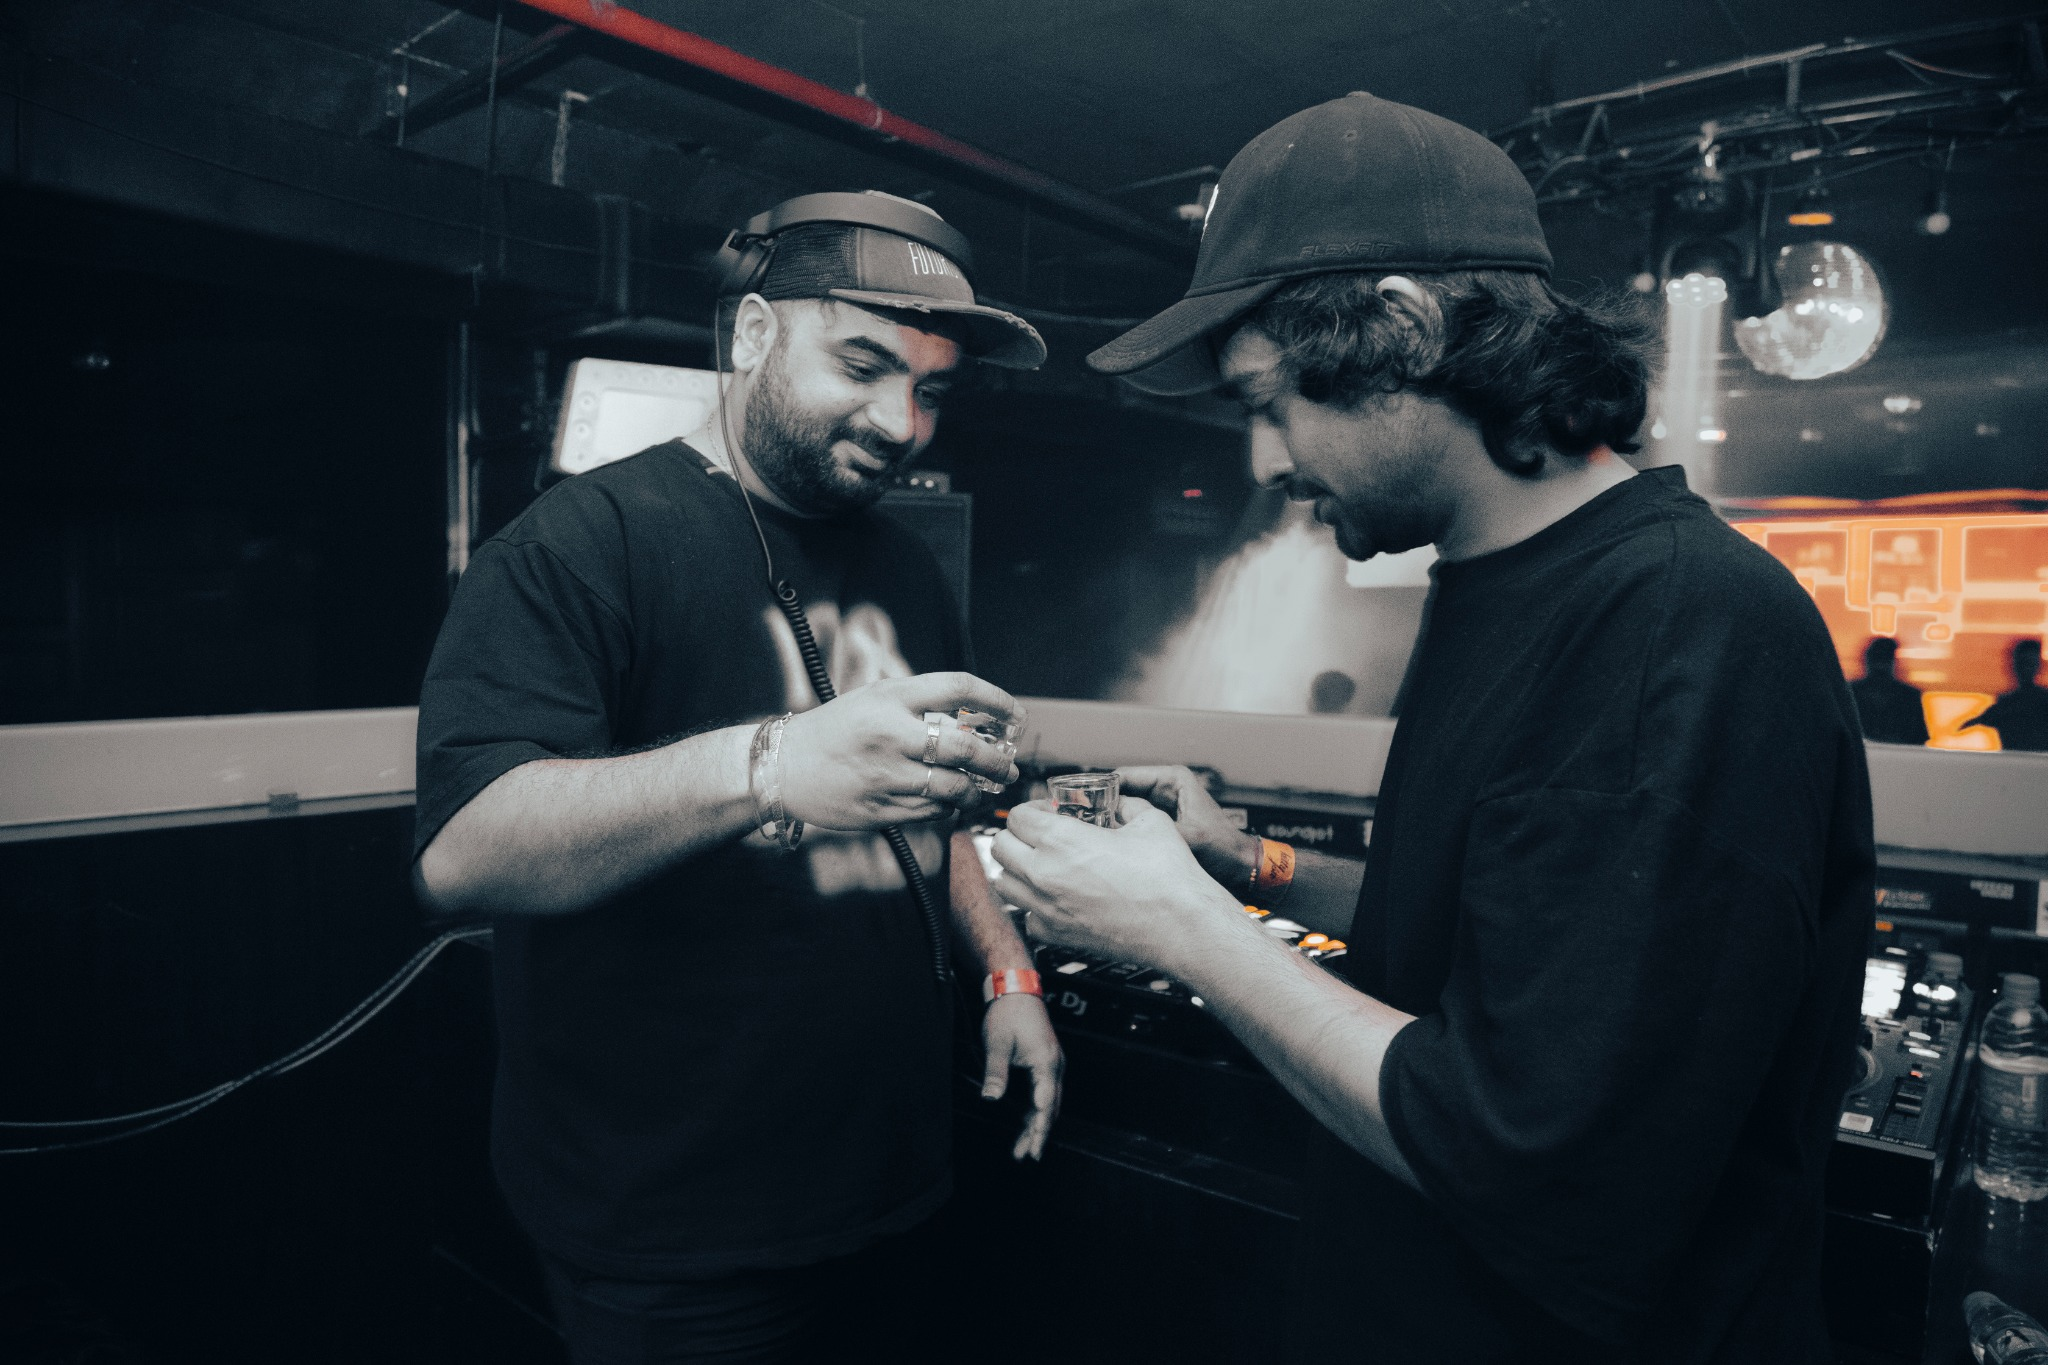
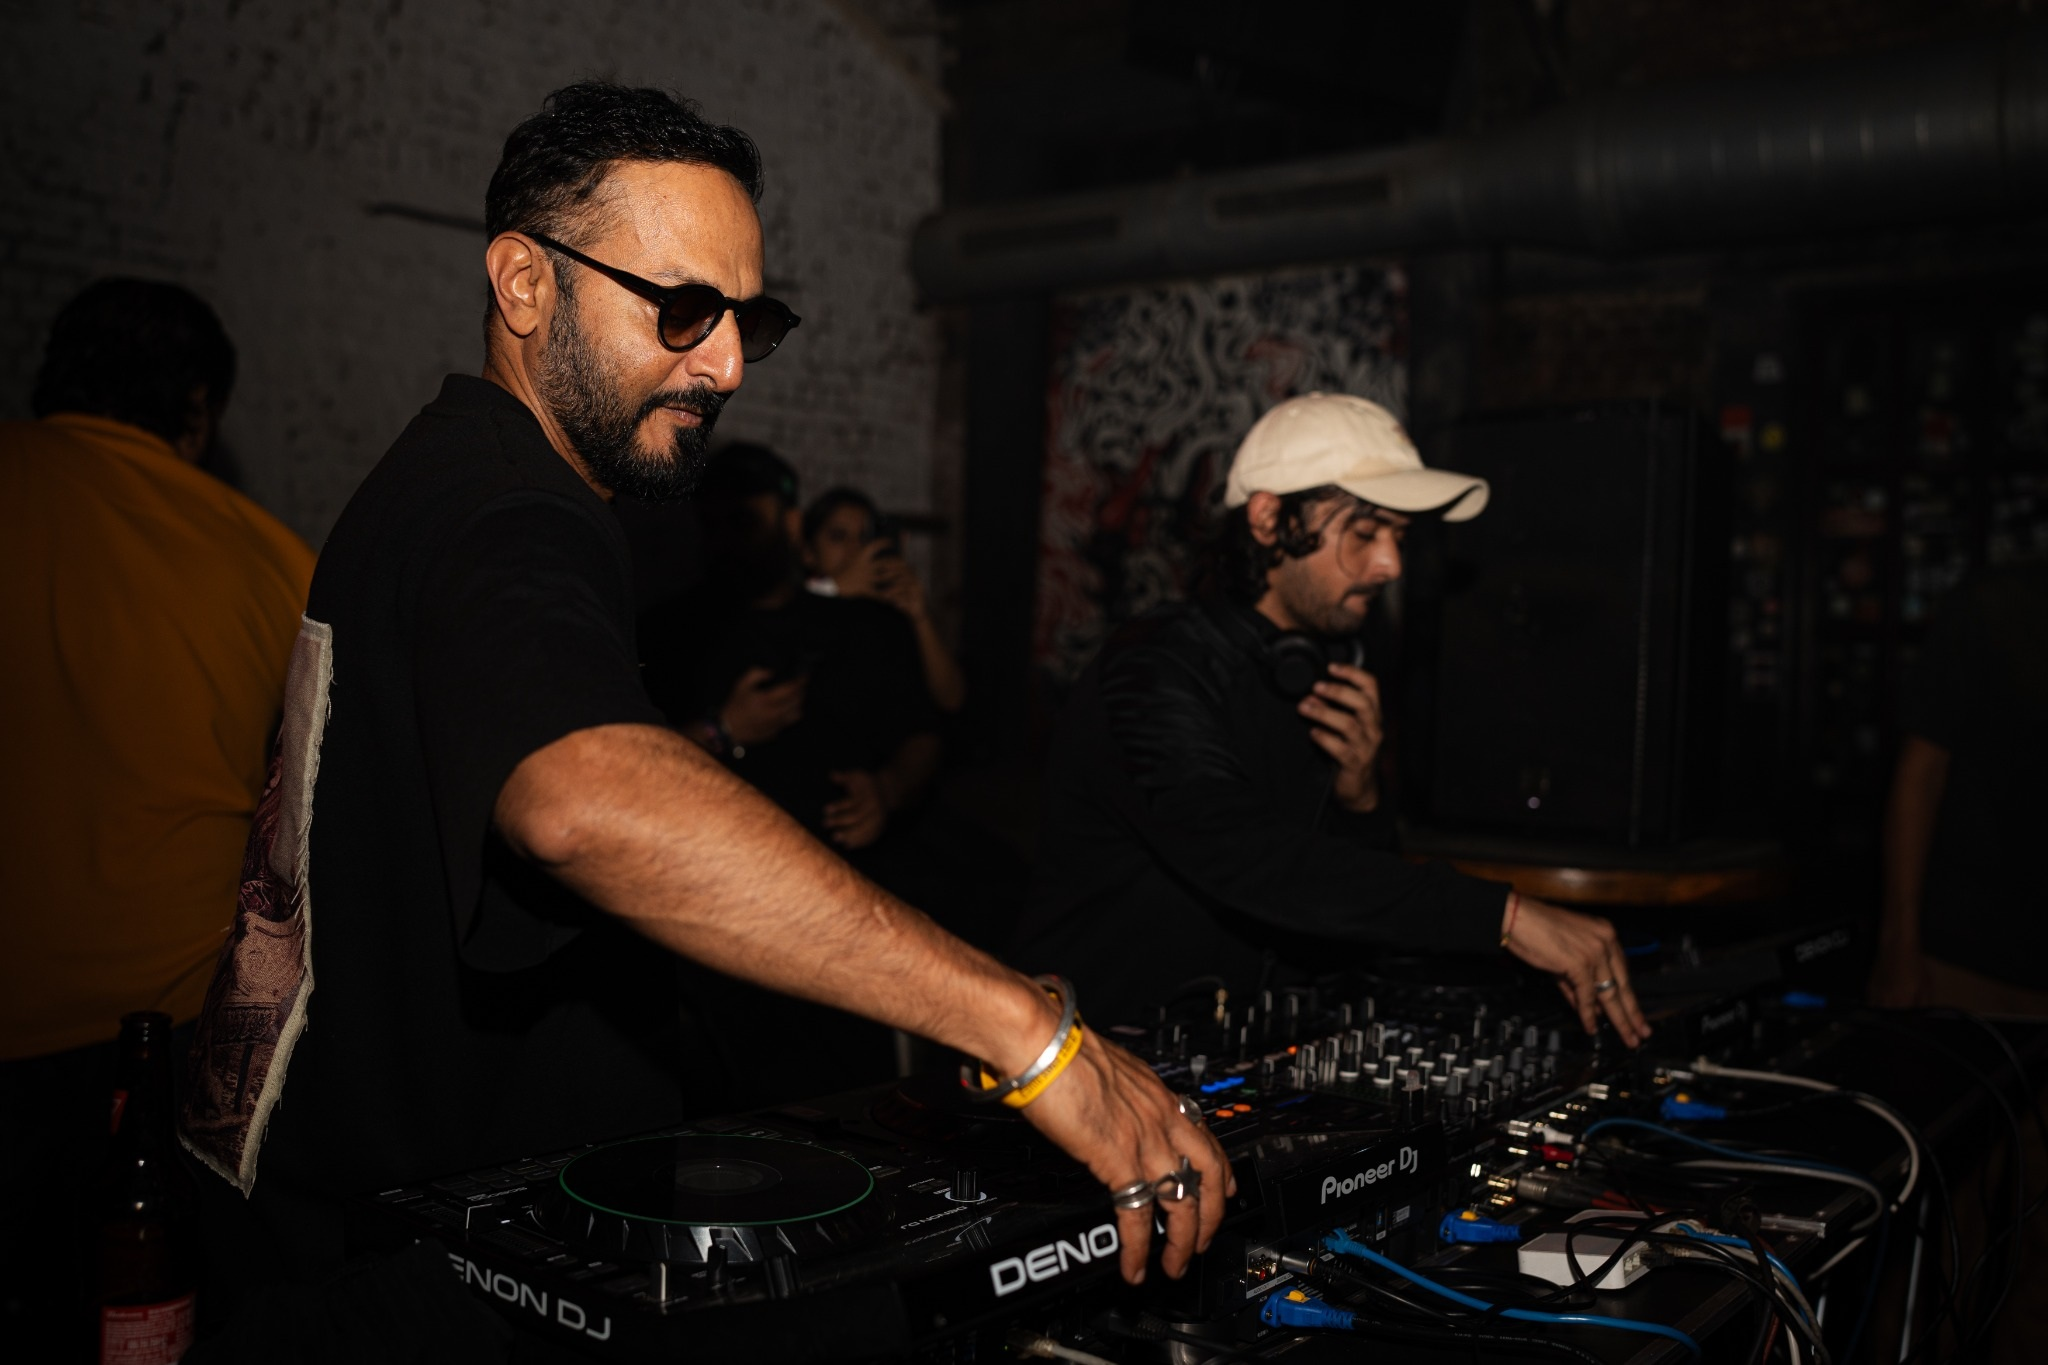
c
c

diff --git a/index.html b/index.html
@@ -35,7 +35,7 @@
       <div class="photo-grid">
         <figure class="tile tile-large image-hover"><img src="ASSETS/nikhil-chinappa-dj.jpg" alt="SYNTHATTIC with Nikhil Chinappa at the decks"></figure>
         <figure class="tile tile-small image-hover"><img src="ASSETS/portrait-film.jpeg" alt="SYNTHATTIC portrait"></figure>
-        <figure class="tile tile-portrait image-hover"><img src="ASSETS/cheers-with-friend.jpeg" alt="Sharing a toast with a friend at the DJ booth"></figure>
+        <figure class="tile tile-portrait image-hover"><img src="ASSETS/cheers-with-friend.jpeg" alt="SYNTHATTIC performing at the DJ booth"></figure>
         <figure class="tile tile-wide image-hover"><img src="ASSETS/studio-daylight-setup.jpeg" alt="Daytime studio setup"></figure>
         <figure class="tile tile-tall image-hover"><img src="ASSETS/live-red-room.jpg" alt="Red room performance"></figure>
       </div>
